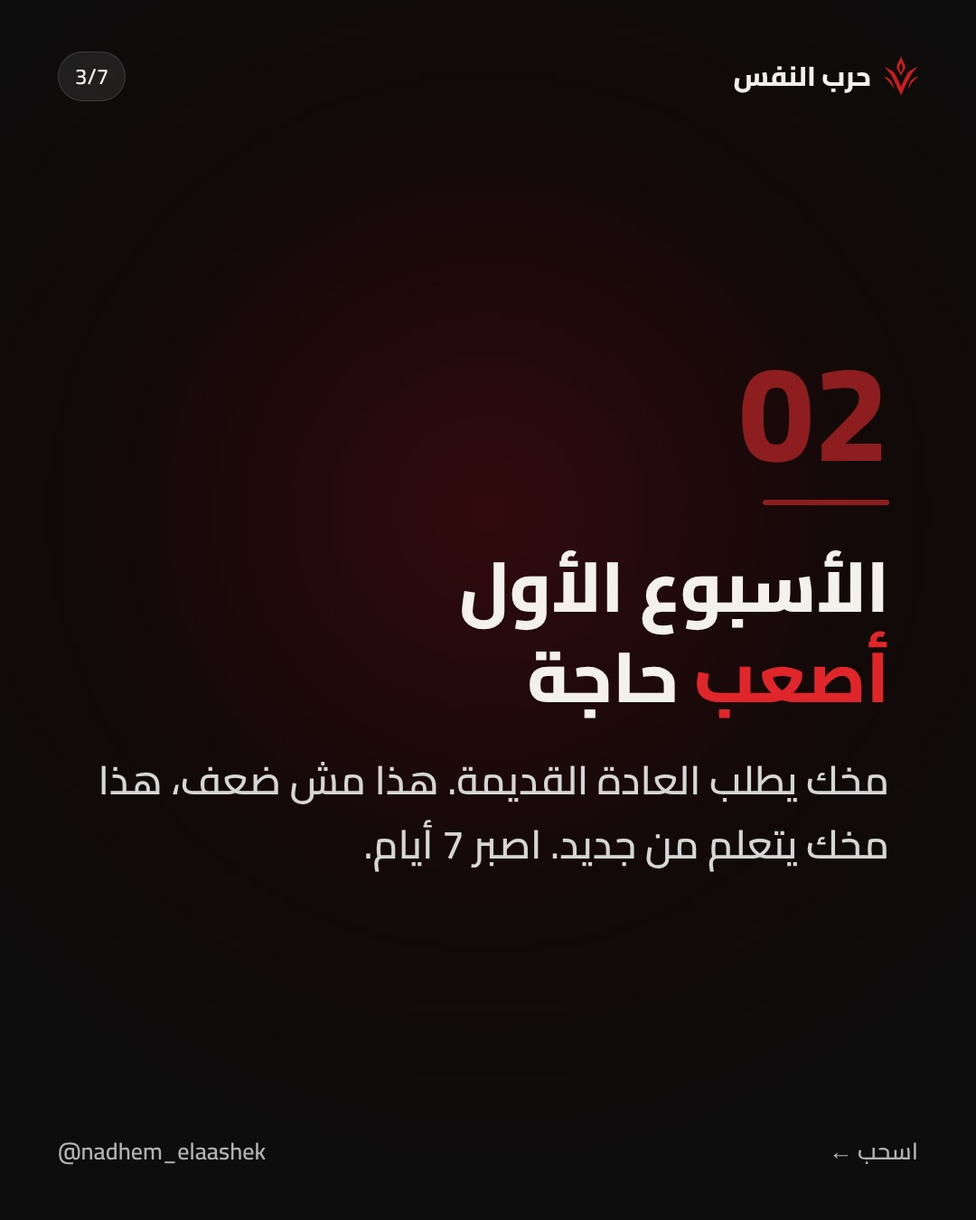
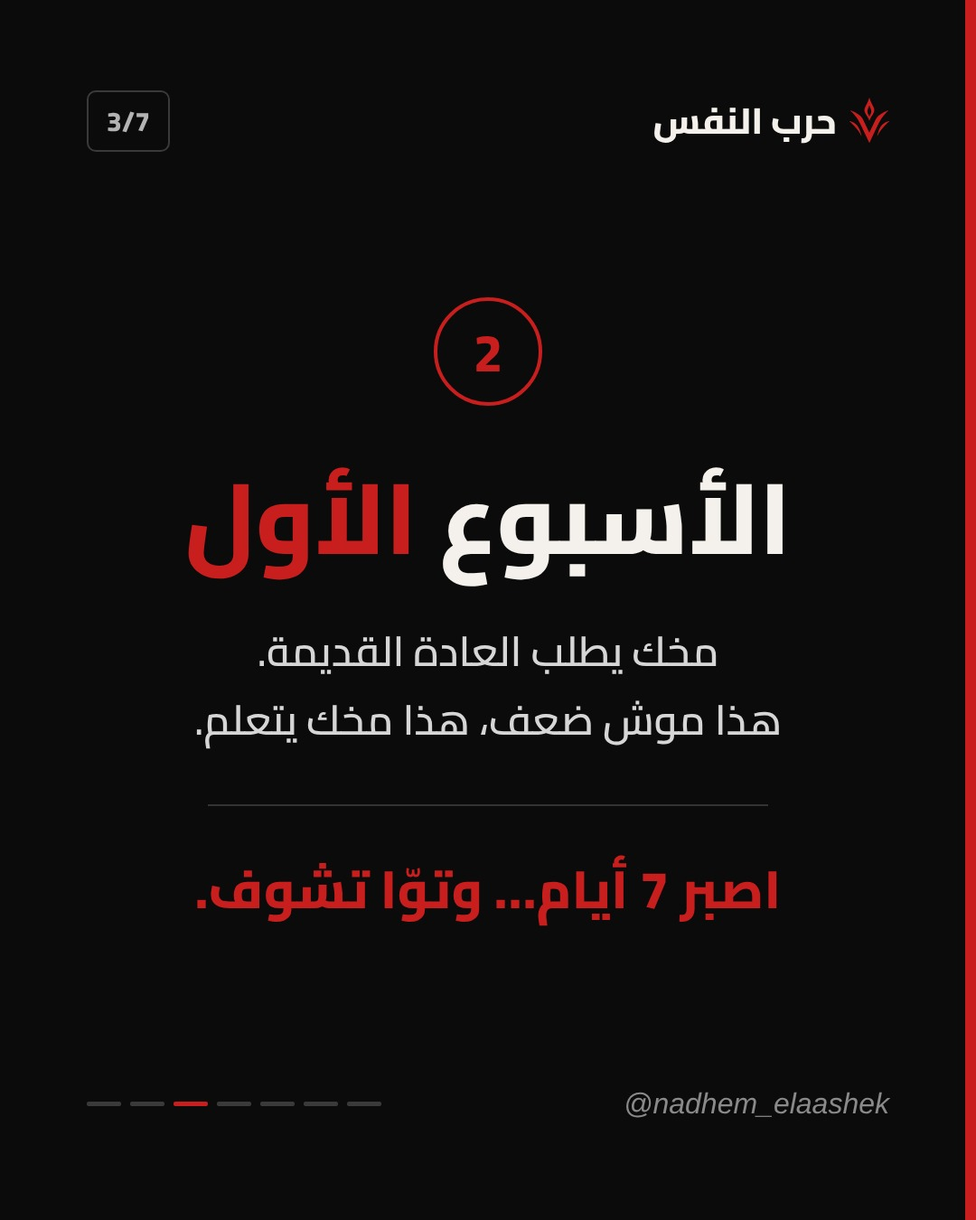
Content templates v1.2: flat black/red backgrounds from Nadhem's reference
Claude-Session: https://claude.ai/code/session_01XtUHtFHPSY8m7FSbfFwV38

diff --git a/brand/content/index.html b/brand/content/index.html
@@ -7,7 +7,7 @@ h1{font-weight:800;font-size:28px}h2{font-weight:800;font-size:22px;margin-top:4
 .bio{background:#161616;border:1px solid #262626;border-radius:12px;padding:16px;margin:12px 0}.bio .h{font-weight:800;color:#E0262B;direction:ltr;text-align:right}
 label{display:block;color:#8A8A8A;font-size:13px;margin-top:10px}pre{white-space:pre-wrap;font-family:C;font-size:16px;margin:4px 0;background:#0D0D0D;padding:10px;border-radius:8px}
 button{background:#8E1D20;color:#F4F1EC;border:0;border-radius:8px;padding:6px 16px;font-family:C;font-weight:800}li{margin:6px 0}a{color:#E0262B}</style></head><body><main>
-<span class="plate">v1.1</span><h1>قوالب المحتوى: ناظم + VAY</h1><p>نفس الهوية في كل شي: أسود #0D0D0D، أحمر غامق #8E1D20 للبلاكات والمربعات والخط، أحمر #C81E1E للشعار، وكلمة وحدة حمراء #E0262B. خط Cairo. اضغط على صورة باش تحلها كبيرة وتسجلها.</p>
+<span class="plate">v1.2</span><h1>قوالب المحتوى: ناظم + VAY</h1><p>ستايل مسطح: أسود صافي بخط أحمر، أو أحمر كامل بكتيبة سوداء. خط Cairo وكلمة وحدة حمراء. اضغط على صورة باش تحلها كبيرة وتسجلها.</p>
 <h2>الـ bio</h2><div class="bio"><div class="h">@nadhem_elaashek</div><label>الاسم</label><pre>ناظم | حرب النفس</pre><button onclick="cp(this)">نسخ</button><label>البايو</label><pre>من الحبس للتوبة، نبني روتيني وديني قدامكم 🤍
 نعاونك تنظّم صلاتك وتبني روتينك وتتحرر من الإدمان
 ⚔ تحدي «حرب النفس» 21 يوم مجاني، يبدا 1 نوفمبر 👇</pre><button onclick="cp(this)">نسخ</button><label>الرابط</label><p>توّا: صفحة الكتاب. من 28 أكتوبر: رابط تيليغرام التحدي.</p></div><div class="bio"><div class="h">@vaynora_</div><label>الاسم</label><pre>VAYNORA | حرب النفس</pre><button onclick="cp(this)">نسخ</button><label>البايو</label><pre>VAYNORA® · عقلية ومجتمع
@@ -15,11 +15,11 @@ button{background:#8E1D20;color:#F4F1EC;border:0;border-radius:8px;padding:6px 1
 اصنع من الألم قوة ⚔ · ابدأ من هنا 👇</pre><button onclick="cp(this)">نسخ</button><label>الرابط</label><p>صفحة الكتاب: nadhem58234848.github.io/VAYNORA/book.html</p></div>
 <h2>القوالب</h2><div class="g"><figure><a href="n1-cover-photo.jpg"><img src="n1-cover-photo.jpg" alt=""></a><figcaption>كاروسيل ناظم: غلاف بصورتك</figcaption></figure><figure><a href="n2-cover-text.jpg"><img src="n2-cover-text.jpg" alt=""></a><figcaption>كاروسيل ناظم: غلاف رقم/كلمة كبيرة</figcaption></figure><figure><a href="n3-inner.jpg"><img src="n3-inner.jpg" alt=""></a><figcaption>كاروسيل ناظم: سلايد داخلي</figcaption></figure><figure><a href="n4-checklist.jpg"><img src="n4-checklist.jpg" alt=""></a><figcaption>كاروسيل ناظم: لستة بمربعات</figcaption></figure><figure><a href="n5-cta.jpg"><img src="n5-cta.jpg" alt=""></a><figcaption>كاروسيل ناظم: آخر سلايد (CTA)</figcaption></figure><figure><a href="p1-challenge-post.jpg"><img src="p1-challenge-post.jpg" alt=""></a><figcaption>بوست: التحدي (ستايل 338K)</figcaption></figure><figure><a href="p2-quote-post.jpg"><img src="p2-quote-post.jpg" alt=""></a><figcaption>بوست: حكمة/جملة</figcaption></figure><figure><a href="s1-story-tip.jpg"><img src="s1-story-tip.jpg" alt=""></a><figcaption>ستوري: نصيحة اليوم</figcaption></figure><figure><a href="s2-story-day.jpg"><img src="s2-story-day.jpg" alt=""></a><figcaption>ستوري: يوم التحدي</figcaption></figure><figure><a href="v1-cover.jpg"><img src="v1-cover.jpg" alt=""></a><figcaption>كاروسيل VAY: غلاف</figcaption></figure><figure><a href="v2-inner.jpg"><img src="v2-inner.jpg" alt=""></a><figcaption>كاروسيل VAY: سلايد داخلي</figcaption></figure><figure><a href="v3-cta.jpg"><img src="v3-cta.jpg" alt=""></a><figcaption>كاروسيل VAY: آخر سلايد</figcaption></figure></div>
 <h2>القواعد</h2><ul>
-<li>ناظم: فوق «حرب النفس» + الشعار، الكونتور فوق على اليسار، تحت @nadhem_elaashek و«اسحب ←».</li>
-<li>VAY: فوق VAYNORA بالحروف الكلاسيكية والخط الأحمر، الشريط العمودي في الغلاف، تحت @vaynora_.</li>
-<li>كلمة وحدة حمراء في كل عنوان. البلاكة دايما بالأحمر الغامق.</li>
-<li>الغلاف: يا صورتك (ناظم) يا رقم كبير. آخر سلايد ديما CTA وحدة.</li>
-<li>البوستات المشتركة (collab): ستايل التحدي بالمربعات، هو اللي جاب 338K.</li>
-<li>الستوري: نصيحة يومية من الكتاب + poll + «الرابط في البايو». أيام التحدي: كارت اليوم X/21.</li>
-<li>الصور هنا أمثلة: نبدلوها بصورك وبصور VAY متاع ChatGPT في كل بوست.</li></ul>
+<li>الخلفية مسطحة ديما: أسود صافي #0B0B0B بخط أحمر رقيق على اليمين، ولا أحمر كامل #C81E1E بكتيبة سوداء. لا تدرّج، لا صورة في الخلفية.</li>
+<li>كل كاروسيل: سلايدات سودا، وآخر سلايد (احفظ / CTA) أحمر كامل.</li>
+<li>فوق: الكونتور في مربع على اليسار، والبراند على اليمين (ناظم: الشعار + «حرب النفس»، VAY: VAYNORA بالحروف الكلاسيكية).</li>
+<li>تحت: الخطوط الصغار متاع التقدم على اليسار (الحالي بالأحمر)، والحساب على اليمين.</li>
+<li>العنوان كبير بخط Cairo، وكلمة وحدة حمراء. الرقم في دائرة حمراء، وخط رمادي يفصل الجملة الأخيرة.</li>
+<li>الصور (VAY ولا ناظم) تجي في كارت بزوايا مدورة، موش خلفية.</li>
+<li>الصور هنا أمثلة: نبدلوها بصورك وبصور VAY في كل بوست.</li></ul>
 </main><script>function cp(b){navigator.clipboard.writeText(b.previousElementSibling.textContent);b.textContent='تنسخ ✓'}</script></body></html>

diff --git a/brand/src/content_templates.py b/brand/src/content_templates.py
@@ -1,124 +1,118 @@
-# Content templates v1.1: Nadhem carousels, posts, stories, VAY carousels. One shared system.
-import os, re, json
+# Content templates v1.2 (flat style, from Nadhem's reference slides 2026-10-16):
+# flat black #0B0B0B with a red edge stripe, or a full red slide with black text. No gradients, no photo backgrounds.
+import os, re
 B = '/home/user/vaynora/brand'
 OUT = '/tmp/claude-0/brand/tpl/html'; os.makedirs(OUT, exist_ok=True)
-CR, SG, NI, BO, KW = '#8E1D20', '#C81E1E', '#0D0D0D', '#F4F1EC', '#E0262B'
+for f in os.listdir(OUT): os.remove(f'{OUT}/{f}')
+RED, CR, BLK, BO, GR, LN = '#C81E1E', '#8E1D20', '#0B0B0B', '#F4F1EC', '#8A8A8A', '#333333'
 E = open('/mnt/project-files/brand/src/emblem_path.txt').read().strip()
 def emb(col, w): return f'<svg viewBox="0 0 1246 1418" style="width:{w}px;display:block"><path fill="{col}" fill-rule="evenodd" d="{E}"/></svg>'
-def svgfile(name, w, style=''):
+def svgfile(name, w):
     s = open(f'{B}/v1.1/svg/{name}.svg').read()
     s = re.sub(r'width="[\d.]+" height="[\d.]+"', '', s, count=1)
-    return f'<div style="width:{w}px;{style}">' + s.replace('<svg ', '<svg style="width:100%;height:auto;display:block" ', 1) + '</div>'
+    return f'<div style="width:{w}px">' + s.replace('<svg ', '<svg style="width:100%;height:auto;display:block" ', 1) + '</div>'
 def kw(t): return re.sub(r'\*(.+?)\*', r'<b class="k">\1</b>', t).replace('|', '<br>')
 
 CSS = f'''@font-face{{font-family:C;src:url(file://{B}/fonts/Cairo-800.ttf);font-weight:800}}
 @font-face{{font-family:C;src:url(file://{B}/fonts/Cairo-600.ttf);font-weight:600}}
 *{{margin:0;padding:0;box-sizing:border-box}}body{{background:#000}}
-#c{{position:relative;width:1080px;height:1350px;overflow:hidden;background:{NI};color:{BO};font-family:C;direction:rtl}}
-#c.st{{height:1920px}}
-.k{{color:{KW};font-weight:800}}
-.bg{{position:absolute;inset:0;width:100%;height:100%;object-fit:cover;filter:saturate(.55) contrast(1.12) brightness(.82)}}
-.ember{{position:absolute;inset:0;background:radial-gradient(circle at 50% 42%,#49080D 0%,#160606 45%,{NI} 80%)}}
-.shade-t{{position:absolute;left:0;right:0;top:0;height:42%;background:linear-gradient({NI}EE,transparent)}}
-.shade-b{{position:absolute;left:0;right:0;bottom:0;height:62%;background:linear-gradient(transparent,{NI}F2 55%,{NI})}}
-.hdr{{position:absolute;top:56px;left:64px;right:64px;display:flex;justify-content:space-between;align-items:center}}
-.brand{{display:flex;align-items:center;gap:14px;font-weight:800;font-size:30px;letter-spacing:.5px}}
-.cnt{{direction:ltr;font-weight:600;font-size:24px;color:{BO};background:#ffffff14;border:1px solid #ffffff22;border-radius:999px;padding:4px 18px}}
-.plate{{display:inline-block;background:{CR};color:{BO};font-weight:800;border-radius:10px;padding:2px 30px 10px;box-shadow:0 14px 40px #0008}}
-.rule{{height:6px;background:{CR};border-radius:3px}}
-.ftr{{position:absolute;bottom:52px;left:64px;right:64px;display:flex;justify-content:space-between;align-items:center;font-weight:600;font-size:26px;color:#B3B3B3}}
-.ftr .h{{direction:ltr}}
-.box{{width:46px;height:46px;border-radius:10px;background:{CR};display:flex;align-items:center;justify-content:center;flex:none}}
-.box svg{{width:28px}}
-.ttl{{font-weight:800;line-height:1.28}}
+#c{{position:relative;width:1080px;height:1350px;overflow:hidden;background:{BLK};color:{BO};font-family:C;direction:rtl}}
+#c.st{{height:1920px}} #c.red{{background:{RED};color:{BLK}}}
+.stripe{{position:absolute;top:0;bottom:0;right:0;width:12px;background:{RED}}}
+.k{{color:{RED}}} .red .k{{color:{BO}}}
+.top{{position:absolute;top:96px;left:96px;right:96px;display:flex;justify-content:space-between;align-items:center}}
+.st .top{{top:220px}}
+.brand{{display:flex;align-items:center;gap:14px;font-weight:800;font-size:40px}}
+.cnt{{direction:ltr;font-weight:800;font-size:30px;color:#B3B3B3;border:2px solid #3A3A3A;border-radius:10px;padding:4px 20px}}
+.red .cnt{{color:{BLK};border-color:{BLK}}}
+.bot{{position:absolute;bottom:110px;left:96px;right:96px;display:flex;justify-content:space-between;align-items:center}}
+.st .bot{{bottom:230px}}
+.h{{direction:ltr;font-family:Arial,sans-serif;font-style:italic;font-size:32px;color:{GR}}} .red .h{{color:#5A0F0F}}
+.dash{{display:flex;gap:10px;direction:ltr}} .dash i{{width:38px;height:5px;background:#3A3A3A;border-radius:2px}} .dash i.on{{background:{RED}}}
+.red .dash i{{background:#8E1D20}} .red .dash i.on{{background:{BLK}}}
+.mid{{position:absolute;left:110px;right:110px;top:0;bottom:0;display:flex;flex-direction:column;align-items:center;justify-content:center;text-align:center}}
+.ttl{{font-weight:800;line-height:1.25}}
+.body{{font-weight:600;font-size:46px;line-height:1.65;color:#D6D6D6}} .red .body{{color:{BLK}}}
+.div{{width:620px;height:2px;background:{LN};margin:56px 0}}
+.circ{{width:120px;height:120px;border:4px solid {RED};border-radius:50%;display:flex;align-items:center;justify-content:center;font-weight:800;font-size:58px;color:{RED};margin-bottom:56px}}
+.btn{{background:{BLK};color:{BO};border-radius:14px;padding:30px 54px;font-weight:800;font-size:50px;line-height:1.5}}
+.plate{{display:inline-block;background:{RED};color:{BO};font-weight:800;border-radius:10px;padding:4px 30px 12px}}
+.box{{width:48px;height:48px;border-radius:10px;background:{RED};display:flex;align-items:center;justify-content:center;flex:none}} .box svg{{width:30px}}
+.card{{border-radius:16px;overflow:hidden;border:2px solid #262626}} .card img{{width:100%;height:100%;object-fit:cover;display:block}}
 '''
 CHECK = f'<svg viewBox="0 0 24 24"><path d="M5 12.5l4.2 4.2L19 7" fill="none" stroke="{BO}" stroke-width="3.2" stroke-linecap="round" stroke-linejoin="round"/></svg>'
+SAVE = f'<svg viewBox="0 0 150 150" style="width:150px;margin-bottom:60px"><circle cx="75" cy="75" r="71" fill="none" stroke="{BLK}" stroke-width="6"/><path d="M53 40h44v70L75 92 53 110z" fill="none" stroke="{BLK}" stroke-width="7" stroke-linejoin="round"/></svg>'
 
-def page(body, story=False):
-    return f'<html><head><meta charset="utf-8"><style>{CSS}</style></head><body><div id="c" class="{"st" if story else ""}">{body}</div></body></html>'
-
-def hdr_n(n=None):  # Nadhem / «حرب النفس» header
-    c = f'<div class="cnt">{n}</div>' if n else '<div></div>'
-    return f'<div class="hdr"><div class="brand">{emb(SG,38)}<span>حرب النفس</span></div>{c}</div>'
-def ftr_n(swipe=True):
-    return f'<div class="ftr"><span>{"اسحب ←" if swipe else ""}</span><span class="h">@nadhem_elaashek</span></div>'
-def hdr_v(n=None):  # VAY header: serif wordmark
-    c = f'<div class="cnt">{n}</div>' if n else '<div></div>'
-    return f'<div class="hdr">{svgfile("wordmark-rule-bone",250)}{c}</div>'
-def ftr_v(swipe=True):
-    return f'<div class="ftr"><span>{"اسحب ←" if swipe else ""}</span><span class="h">@vaynora_</span></div>'
-def vstrip():  # vertical serif wordmark strip (VAY signature)
-    return f'<div style="position:absolute;left:30px;top:50%;transform:translateY(-50%) rotate(-90deg);transform-origin:center;width:0;height:0"><div style="position:absolute;left:-300px;top:-20px;width:600px;opacity:.55">{svgfile("wordmark-bone",600)}</div></div>'
+def page(body, story=False, red=False, stripe=True):
+    cls = ' '.join(x for x in ['st' if story else '', 'red' if red else ''] if x)
+    st = '' if (red or not stripe) else '<div class="stripe"></div>'
+    return f'<html><head><meta charset="utf-8"><style>{CSS}</style></head><body><div id="c" class="{cls}">{st}{body}</div></body></html>'
+def dashes(i, n): return '<div class="dash">' + ''.join(f'<i class="{"on" if k == i else ""}"></i>' for k in range(1, n + 1)) + '</div>'
+def top(brand, cnt=None):
+    return f'<div class="top"><div class="brand">{brand}</div>{f"<div class=cnt>{cnt}</div>" if cnt else "<div></div>"}</div>'
+def bot(h, i=None, n=None): return f'<div class="bot"><span class="h">{h}</span>{dashes(i, n) if n else "<span></span>"}</div>'
+NB = lambda red=False: f'{emb(BLK if red else RED, 44)}<span>حرب النفس</span>'
+VB = lambda red=False: svgfile('wordmark-black' if red else 'wordmark-bone', 330)
+NH, VH = '@nadhem_elaashek', '@vaynora_'
 
 T = {}
 NAD = '/tmp/claude-0/brand/cv2/tool/cover-frame.jpg'
 VAY = '/mnt/project-files/vay-system/carousel-02/src/{}.png'
 
 # ---------- Nadhem carousel ----------
-T['n1-cover-photo'] = page(f'''<img class="bg" src="file://{NAD}" style="object-position:50% 22%"><div class="shade-t"></div><div class="shade-b"></div>{hdr_n("1/7")}
-<div style="position:absolute;right:64px;left:64px;bottom:190px;text-align:center"><div class="plate" style="font-size:54px;transform:rotate(-2deg);margin-bottom:34px">قصتي · الحلقة الأولى</div>
-<div class="ttl" style="font-size:96px">{kw("قبل الحبس|كنت *ضايع*")}</div></div>{ftr_n()}''')
-T['n2-cover-text'] = page(f'''<div class="ember"></div><div style="position:absolute;left:50%;top:50%;transform:translate(-50%,-52%);opacity:.07">{emb(SG,760)}</div>{hdr_n("1/7")}
-<div style="position:absolute;inset:0;display:flex;flex-direction:column;align-items:center;justify-content:center;text-align:center;padding:0 80px">
-<div class="ttl" style="font-size:250px;line-height:1;color:{SG}">90</div><div class="ttl" style="font-size:92px;margin-top:-6px">يوم بلاش إباحية</div>
-<div class="rule" style="width:220px;margin:40px 0 30px"></div><div style="font-weight:600;font-size:40px;color:#B3B3B3">شنوة يصير لمخك كل مرحلة</div></div>{ftr_n()}''')
-T['n3-inner'] = page(f'''<div class="ember" style="opacity:.6"></div>{hdr_n("3/7")}
-<div style="position:absolute;inset:0;display:flex;flex-direction:column;justify-content:center;padding:0 96px">
-<div class="ttl" style="font-size:150px;color:{CR};line-height:1">02</div><div class="rule" style="width:140px;margin:22px 0 40px"></div>
-<div class="ttl" style="font-size:78px">{kw("الأسبوع الأول|*أصعب* حاجة")}</div>
-<div style="font-weight:600;font-size:44px;line-height:1.6;color:#D6D6D6;margin-top:30px">مخك يطلب العادة القديمة. هذا مش ضعف، هذا مخك يتعلم من جديد. اصبر 7 أيام.</div></div>{ftr_n()}''')
-items = ['صليت الفجر في وقتها', 'قريت صفحة قرآن', 'تمرين 20 دقيقة', 'نمت قبل 23:00', 'تليفون برا البيت قبل النوم']
-lst = ''.join(f'<div style="display:flex;align-items:center;gap:26px;margin:22px 0"><div class="box">{CHECK}</div><span style="font-size:52px;font-weight:800">{i}</span></div>' for i in items)
-T['n4-checklist'] = page(f'''<div class="ember" style="opacity:.5"></div>{hdr_n("4/7")}
-<div style="position:absolute;inset:0;display:flex;flex-direction:column;justify-content:center;padding:0 96px">
-<div class="plate" style="font-size:56px;align-self:flex-start;margin-bottom:46px">روتين المحارب اليومي</div>{lst}</div>{ftr_n()}''')
-T['n5-cta'] = page(f'''<div class="ember"></div>{hdr_n("7/7")}
-<div style="position:absolute;inset:0;display:flex;flex-direction:column;align-items:center;justify-content:center;text-align:center;padding:0 90px">
-{emb(SG,170)}<div class="ttl" style="font-size:84px;margin-top:50px">{kw("تحب تبدا *معانا*؟")}</div>
-<div style="font-weight:600;font-size:42px;color:#B3B3B3;margin:26px 0 54px">تحدي «حرب النفس» 21 يوم، مجاني، يبدا 1 نوفمبر</div>
-<div class="plate" style="font-size:58px;padding:10px 50px 20px">اكتب «حرب» في التعليقات</div></div>{ftr_n(False)}''')
+T['n1-cover'] = page(f'''{top(NB(), "1/7")}<div class="mid"><div class="plate" style="font-size:44px;margin-bottom:46px">قصتي · الحلقة الأولى</div>
+<div class="ttl" style="font-size:120px">{kw("قبل الحبس|كنت *ضايع*")}</div><div class="div" style="width:300px;margin:50px 0 34px"></div>
+<div class="body" style="color:{GR}">اسحب ←</div></div>{bot(NH, 1, 7)}''')
+T['n2-cover-number'] = page(f'''{top(NB(), "1/7")}<div class="mid"><div class="ttl" style="font-size:300px;line-height:1;color:{RED}">90</div>
+<div class="ttl" style="font-size:100px">يوم بلاش إباحية</div><div class="div"></div><div class="body">شنوة يصير لمخك في كل مرحلة</div></div>{bot(NH, 1, 7)}''')
+T['n3-inner'] = page(f'''{top(NB(), "3/7")}<div class="mid"><div class="circ">2</div><div class="ttl" style="font-size:110px">{kw("الأسبوع *الأول*")}</div>
+<div class="body" style="margin-top:40px">مخك يطلب العادة القديمة.<br>هذا موش ضعف، هذا مخك يتعلم.</div><div class="div"></div>
+<div class="ttl" style="font-size:58px;color:{RED}">اصبر 7 أيام… وتوّا تشوف.</div></div>{bot(NH, 3, 7)}''')
+items = ['صليت الفجر في وقتها', 'قريت صفحة قرآن', 'تمرين 20 دقيقة', 'نمت قبل 23:00', 'التليفون برا البيت في الليل']
+lst = ''.join(f'<div style="display:flex;align-items:center;gap:28px;margin:20px 0"><div class="box">{CHECK}</div><span style="font-size:52px;font-weight:800">{i}</span></div>' for i in items)
+T['n4-checklist'] = page(f'''{top(NB(), "4/7")}<div class="mid" style="align-items:flex-start;text-align:right">
+<div class="ttl" style="font-size:84px;margin-bottom:20px">{kw("روتين *المحارب*")}</div><div class="div" style="width:100%;margin:20px 0 34px"></div>{lst}</div>{bot(NH, 4, 7)}''')
+T['n5-cta-red'] = page(f'''{top(NB(True), "7/7")}<div class="mid">{SAVE}<div class="ttl" style="font-size:92px">احفظ هذا البوست</div>
+<div class="body" style="margin:30px 0 60px">وارجعلو كل نهار تحس روحك طحت.<br>الحرب ما تتربحش في نهار.</div>
+<div class="btn">اكتب «حرب» في التعليقات<div style="font-size:38px;color:#B3B3B3">تحدي 21 يوم مجاني · 1 نوفمبر</div></div></div>{bot(NH, 7, 7)}''', red=True)
 
-# ---------- Posts (single image, collab-ready) ----------
+# ---------- Posts ----------
 items2 = ['لا إباحية', 'لا سهر بلا فايدة', 'الصلاة في وقتها', 'النوم بكري', 'تمرين كل يوم', 'نص ساعة قرآن', 'لا تدخين']
-lst2 = ''.join(f'<div style="display:flex;align-items:center;gap:20px;margin:13px 0"><div class="box" style="width:40px;height:40px">{CHECK}</div><span style="font-size:42px;font-weight:800">{i}</span></div>' for i in items2)
-T['p1-challenge-post'] = page(f'''<img class="bg" src="file://{NAD}" style="object-position:30% 20%;width:70%;left:auto;right:0"><div style="position:absolute;inset:0;background:linear-gradient(270deg,transparent 20%,{NI}E8 52%,{NI} 70%)"></div>
-<div style="position:absolute;top:70px;right:64px;left:64px;text-align:center"><div class="plate" style="font-size:62px">هل أنت مستعد لهذا التحدي؟</div></div>
-<div style="position:absolute;left:70px;top:290px">{lst2}</div>
-<div class="ftr"><div style="display:flex;gap:12px;align-items:center">{emb(SG,30)}<span>حرب النفس</span></div><span class="h">@nadhem_elaashek × @vaynora_</span></div>''')
-T['p2-quote-post'] = page(f'''<div class="ember"></div><div style="position:absolute;inset:0;display:flex;flex-direction:column;align-items:center;justify-content:center;text-align:center;padding:0 100px">
-<div style="font-size:200px;line-height:.6;color:{CR};font-weight:800">"</div>
-<div class="ttl" style="font-size:86px;margin-top:20px">{kw("الألم اللي ما|يكسرك، *يبنيك*")}</div>
-<div class="rule" style="width:180px;margin:50px 0 34px"></div><div style="font-weight:600;font-size:36px;color:#B3B3B3">ناظم · اصنع من الألم قوة</div></div>
-<div class="ftr" style="justify-content:center;gap:16px">{emb(SG,30)}<span class="h">@nadhem_elaashek</span></div>''')
+lst2 = ''.join(f'<div style="display:flex;align-items:center;gap:22px;margin:14px 0"><div class="box" style="width:42px;height:42px">{CHECK}</div><span style="font-size:44px;font-weight:800">{i}</span></div>' for i in items2)
+T['p1-challenge-post'] = page(f'''{top(NB())}
+<div style="position:absolute;top:200px;left:96px;right:96px;text-align:center"><div class="ttl" style="font-size:80px">{kw("هل أنت *مستعد*|لهذا التحدي؟")}</div></div>
+<div style="position:absolute;top:470px;right:96px">{lst2}</div>
+<div class="card" style="position:absolute;top:470px;left:96px;width:380px;height:560px"><img src="file://{NAD}" style="object-position:40% 30%"></div>
+{bot(NH + " × " + VH)}''')
+T['p2-quote-red'] = page(f'''{top(NB(True))}<div class="mid"><div class="ttl" style="font-size:220px;line-height:.5;height:110px">"</div>
+<div class="ttl" style="font-size:88px">{kw("الألم اللي ما يكسرك|*يبنيك*")}</div><div class="div" style="background:{BLK};width:240px"></div>
+<div class="body" style="font-weight:800">اصنع من الألم قوة</div></div>{bot(NH)}''', red=True)
 
-# ---------- Stories (1080x1920) ----------
-T['s1-story-tip'] = page(f'''<div class="ember"></div><div class="hdr" style="top:200px">{''}<div class="brand">{emb(SG,40)}<span>حرب النفس</span></div><div class="cnt">نصيحة اليوم</div></div>
-<div style="position:absolute;top:470px;left:80px;right:80px"><div class="ttl" style="font-size:150px;color:{CR};line-height:1">07</div><div class="rule" style="width:140px;margin:24px 0 46px"></div>
-<div class="ttl" style="font-size:84px">{kw("التليفون يبات|*برا* البيت")}</div>
-<div style="font-weight:600;font-size:46px;line-height:1.6;color:#D6D6D6;margin-top:34px">أغلب السقطات تصير بعد نص الليل في الفرش. خرّج السبب، تخرج التجربة.</div></div>
-<div style="position:absolute;left:80px;right:80px;top:1250px;height:230px;border:3px dashed #ffffff30;border-radius:18px;display:flex;align-items:center;justify-content:center;color:#5C5C5C;font-size:32px;font-weight:600">مكان الـ poll / سؤال</div>
-<div style="position:absolute;bottom:240px;left:0;right:0;text-align:center"><div class="plate" style="font-size:52px">الرابط في البايو ↑</div><div style="margin-top:26px;font-weight:600;font-size:28px;color:#8A8A8A">من كتاب «معركة الخلوات»</div></div>''', story=True)
-T['s2-story-day'] = page(f'''<img class="bg" src="file://{NAD}" style="object-position:50% 30%"><div class="shade-t" style="height:30%"></div><div class="shade-b" style="height:55%"></div>
-<div class="hdr" style="top:200px"><div class="brand">{emb(SG,40)}<span>حرب النفس</span></div><div class="cnt">تحدي 21 يوم</div></div>
-<div style="position:absolute;left:80px;right:80px;bottom:300px">
-<div style="display:flex;align-items:baseline;gap:20px;direction:ltr;justify-content:flex-end"><span class="ttl" style="font-size:210px;line-height:1;color:{SG}">12</span><span class="ttl" style="font-size:70px;color:#B3B3B3">/ 21</span></div>
-<div class="rule" style="margin:24px 0 30px"></div>
-<div style="display:flex;justify-content:space-between;font-weight:800;font-size:46px;text-align:center">
-<div>الفجر<div style="color:{KW}">✓</div></div><div>قرآن<div style="color:{KW}">صفحتين</div></div><div>تمرين<div style="color:{KW}">25 دقيقة</div></div><div>نظيف<div style="color:{KW}">12 يوم</div></div></div></div>
-<div class="ftr" style="bottom:200px;justify-content:center"><span class="h">@nadhem_elaashek</span></div>''', story=True)
+# ---------- Stories ----------
+T['s1-story-tip'] = page(f'''{top(NB(), "نصيحة اليوم")}<div class="mid" style="bottom:260px"><div class="circ">7</div>
+<div class="ttl" style="font-size:100px">{kw("التليفون يبات|*برا* البيت")}</div>
+<div class="body" style="margin-top:40px">أغلب السقطات تصير بعد نص الليل.<br>خرّج السبب، تخرج التجربة.</div><div class="div"></div>
+<div style="width:760px;height:220px;border:3px dashed #3A3A3A;border-radius:18px;display:flex;align-items:center;justify-content:center;color:#5C5C5C;font-size:32px;font-weight:600">مكان الـ poll / السؤال</div></div>
+<div style="position:absolute;bottom:400px;left:0;right:0;text-align:center"><div class="plate" style="font-size:50px">الرابط في البايو ↑</div></div>{bot(NH)}''', story=True)
+T['s2-story-day-red'] = page(f'''{top(NB(True), "تحدي 21 يوم")}<div class="mid"><div class="body" style="font-weight:800">اليوم</div>
+<div style="direction:ltr;display:flex;align-items:baseline;gap:18px"><span class="ttl" style="font-size:340px;line-height:1">12</span><span class="ttl" style="font-size:90px;color:#5A0F0F">/21</span></div>
+<div class="div" style="background:{BLK}"></div>
+<div style="display:grid;grid-template-columns:1fr 1fr;gap:30px 90px;font-weight:800;font-size:48px;text-align:center">
+<div>الفجر<div style="color:{BO}">✓</div></div><div>قرآن<div style="color:{BO}">صفحتين</div></div><div>تمرين<div style="color:{BO}">25 دقيقة</div></div><div>نظيف<div style="color:{BO}">12 يوم</div></div></div></div>{bot(NH)}''', story=True, red=True)
 
 # ---------- VAY carousel ----------
-T['v1-cover'] = page(f'''<img class="bg" src="file://{VAY.format(1)}" style="filter:none"><div class="shade-t"></div><div class="shade-b" style="height:48%"></div>{hdr_v("1/8")}{vstrip()}
-<div style="position:absolute;left:90px;right:64px;bottom:170px;text-align:center"><div class="ttl" style="font-size:92px">{kw("لا أحد يسقط|*فجأة*")}</div>
-<div style="font-weight:600;font-size:40px;color:#D6D6D6;margin-top:18px">السقوط سلّم من 7 درجات</div></div>{ftr_v()}''')
-T['v2-inner'] = page(f'''<img src="file://{VAY.format(3)}" style="position:absolute;top:0;left:0;width:100%;height:62%;object-fit:cover"><div style="position:absolute;left:0;right:0;top:40%;height:22%;background:linear-gradient(transparent,{NI})"></div>{hdr_v("3/8")}
-<div style="position:absolute;left:0;right:0;top:62%;height:5px;background:{CR}"></div>
-<div style="position:absolute;top:66%;left:80px;right:80px;text-align:center"><div class="plate" style="font-size:40px;margin-bottom:24px">الدرجة 2</div>
-<div class="ttl" style="font-size:72px">{kw("«غير نظرة وحدة»|*تفتح* الباب")}</div></div>{ftr_v()}''')
-T['v3-cta'] = page(f'''<div class="ember"></div>{hdr_v("8/8")}
-<div style="position:absolute;inset:0;display:flex;flex-direction:column;align-items:center;justify-content:center;text-align:center;padding:0 90px">
-{svgfile("lockup-transparent-dark",420)}<div class="ttl" style="font-size:74px;margin-top:56px">{kw("الخطة الكاملة|في «معركة *الخلوات*»")}</div>
-<div style="font-weight:600;font-size:40px;color:#B3B3B3;margin:24px 0 50px">90 يوم، خطوة بخطوة</div><div class="plate" style="font-size:54px;padding:10px 50px 20px">الرابط في البايو</div></div>{ftr_v(False)}''')
+T['v1-cover'] = page(f'''{top(VB(), "1/8")}<div class="card" style="position:absolute;top:210px;left:96px;right:96px;height:640px"><img src="file://{VAY.format(1)}"></div>
+<div style="position:absolute;top:900px;left:96px;right:96px;text-align:center"><div class="ttl" style="font-size:92px">{kw("لا أحد يسقط *فجأة*")}</div>
+<div class="body" style="color:{GR};margin-top:6px">السقوط سلّم من 7 درجات</div></div>{bot(VH, 1, 8)}''')
+T['v2-inner'] = page(f'''{top(VB(), "3/8")}<div class="card" style="position:absolute;top:210px;left:96px;right:96px;height:520px"><img src="file://{VAY.format(3)}"></div>
+<div style="position:absolute;top:770px;left:96px;right:96px;display:flex;flex-direction:column;align-items:center;text-align:center">
+<div class="circ" style="width:96px;height:96px;font-size:46px;margin-bottom:24px">2</div><div class="ttl" style="font-size:76px">{kw("نظرة واحدة *تفتح* الباب")}</div></div>{bot(VH, 3, 8)}''')
+T['v3-text'] = page(f'''{top(VB(), "6/8")}<div class="mid"><div class="circ">5</div><div class="ttl" style="font-size:120px">{kw("حرب *الكسل*")}</div>
+<div class="body" style="margin-top:40px">الأحلام لا تحترم من ينام كثيرًا<br>ويتكلم أكثر مما يعمل.</div><div class="div"></div>
+<div class="ttl" style="font-size:62px;color:{RED}">ابدأ صغيرًا… لكن ابدأ اليوم.</div></div>{bot(VH, 6, 8)}''')
+T['v4-save-red'] = page(f'''{top(VB(True), "8/8")}<div class="mid">{SAVE}<div class="ttl" style="font-size:92px">احفظ هذا المنشور</div>
+<div class="body" style="margin:30px 0 60px">وارجع له كل يوم تخسر فيه معركة.<br>الحرب لا تُربح في يوم واحد.</div>
+<div class="btn">انضم إلى مجتمع VAYNORA<div style="font-size:40px;direction:ltr">@vaynora_</div></div></div>{bot(VH, 8, 8)}''', red=True)
 
 for k, v in T.items(): open(f'{OUT}/{k}.html', 'w').write(v)
 print(list(T))
